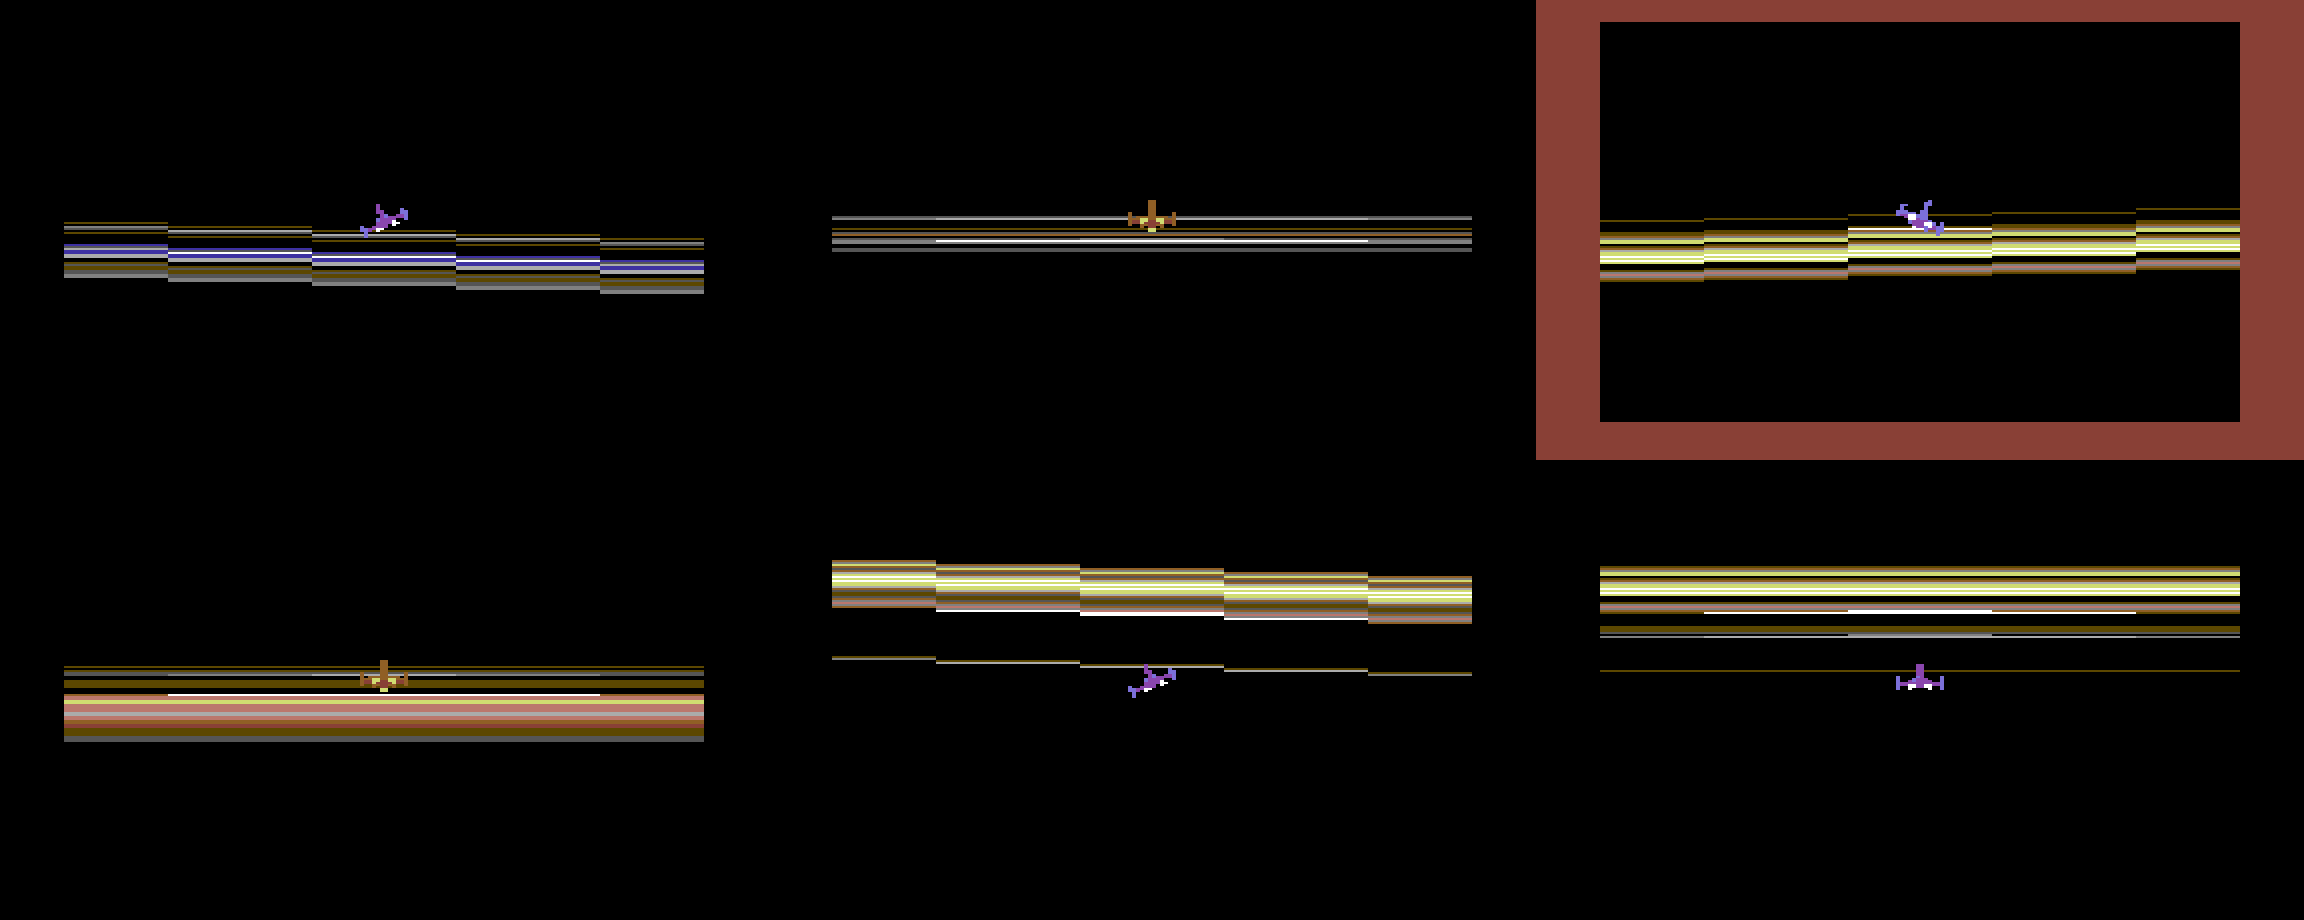
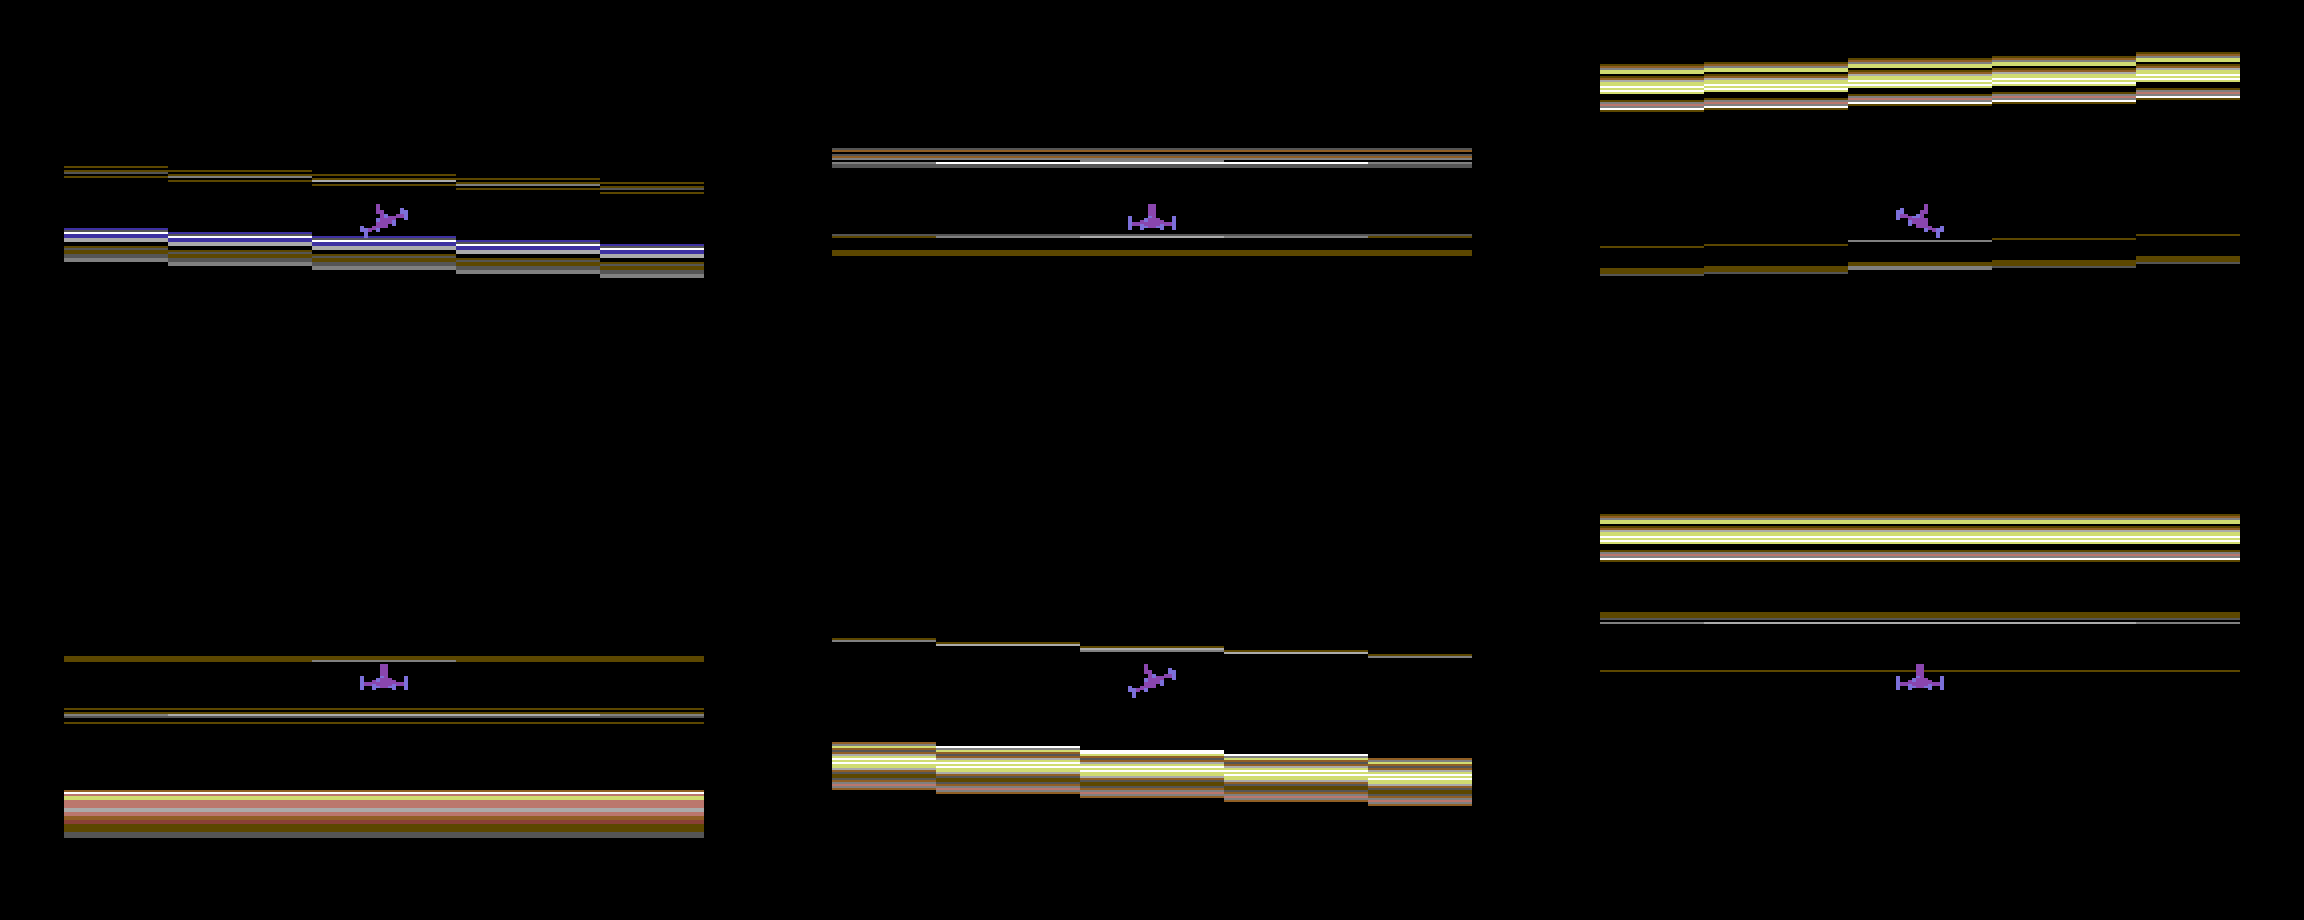
GOLDSHIP: hidden nose in the tail view, bars spawn off the centre line
The engine exhausts are now trim (light blue), so white belongs to the
light on the nose alone: hidden behind the fuselage in the tail view,
showing below the engines in the diving frames.

Spawn offsets are a 16-entry, 16-bit cycle: 5 near the ship's height
(collision course, at the screen centre) and 11 off the centre line up
to 200 units, so bars above and below make a forest. Worst frame 88%
over 3000 simulated frames.

Claude-Session: https://claude.ai/code/session_01XRP7YWTXV6rxeodyPouCbG

diff --git a/c64-raybars/gen_tables.py b/c64-raybars/gen_tables.py
@@ -471,10 +471,13 @@ emit2("joyframe", JF)
 # about the middle segment, stored as kb = 8 - off_k (rtilt0..4, index r + 8)
 for k in range(5):
     emit2(f"rtilt{k}", [8 - int(math.floor(4 + (k - 2) * (-r / 4) + 0.5)) for r in range(-8, 9)])
-# spawn height relative to the ship: 15 values -42..42 (|y| < 24 is a
-# collision course: 7 of them), shuffled
-yspawn = cycle([-42 + 6 * i for i in range(15)], lambda a, b: abs(a - b) >= 24)
-emit2("yspawn", yspawn)
+# spawn height relative to the ship, shuffled: 5 near it (|y| < 24 is a
+# collision course: they start at the screen centre) and 11 off the centre
+# line, up to 200 units (17 lines out when they appear).  16 bits.
+yspawn = cycle([-18, -8, 0, 10, 20, -36, 40, -60, 64, -92, 96, -132, 128, -170, 172, 200],
+               lambda a, b: abs(a - b) >= 30)
+emit2("yspawnl", [v & 255 for v in yspawn])
+emit2("yspawnh", [(v >> 8) & 255 for v in yspawn])
 # lit rows: for each spec offset p (spe_op), the 24-row bar's rows with spec
 # level >= HLTHR (3) are one run: litlo[p] .. lithi[p]-1 (0, 0: none)
 lo_, hi_ = [], []

diff --git a/c64-raybars/ship3d.py b/c64-raybars/ship3d.py
@@ -82,7 +82,7 @@ def model():
                   (s * 11.4, -4.2, -3.0)], 2.2, "trim")
         # engine pods under the wing roots: their exhausts glow
         f += loft([(-8, octagon(2.8, 2.6, -3.0)), (-1, octagon(2.8, 2.6, -3.0)),
-                   (1, octagon(1.2, 1.2, -3.0))], "trim", caps=("glow", "trim"), dx=s * 4.6)
+                   (1, octagon(1.2, 1.2, -3.0))], "trim", caps=("trim", "trim"), dx=s * 4.6)
     # tail fin
     f += fin([(0, 2.4, -7.0), (0, 9.4, -7.6), (0, 9.4, -5.6), (0, 2.4, -1.0)], 2.2)
     return f

diff --git a/c64-raybars/README.md b/c64-raybars/README.md
@@ -381,7 +381,10 @@ python3 sim_goldship.py      # needs -g -Ln goldship.lbl; renders preview_goldsh
   * Each frame is rendered with a z-buffer at 8 x 4 samples per
     multicolour pixel and flat-shaded into the sprite's three colours:
     shadowed hull, lit hull and trim (wingtip fins, engine pods), and
-    glow (the exhausts and the nose light).
+    white, kept for the light on the nose alone.
+  * Looking straight at the tail, the nose is hidden behind the fuselage,
+    so the level frame has no white. Diving tips the nose below the
+    engines, so its light shows there. Climbing hides it behind the fin.
   * Parts thinner than a multicolour pixel (2 screen pixels) vanish at
     this size, so the fins are modelled thick.
 * **Pitch** (up / down) eases the ship's climb speed toward ±1 unit per
@@ -392,8 +395,10 @@ python3 sim_goldship.py      # needs -g -Ln goldship.lbl; renders preview_goldsh
   All bars are parallel, so the tilt comes from one 17-entry table per
   segment (`rtilt0..4`).
 * **New bars** appear far away at your current height, plus the next of
-  15 shuffled offsets from -42 to 42. So they always start at the screen
-  centre, and 7 of the 15 offsets are on a collision course.
+  16 shuffled offsets (16-bit): 5 near the ship, on a collision course at
+  the screen centre, and 11 off the centre line, up to 200 units away
+  (17 lines out when they appear). Bars above and below make a forest to
+  fly through.
 * **Collision course.** A bar covers the screen centre exactly when its
   height is within half its thickness (24 units) of the ship's, at any
   distance. While any bar ahead does, the ship's palette changes:
